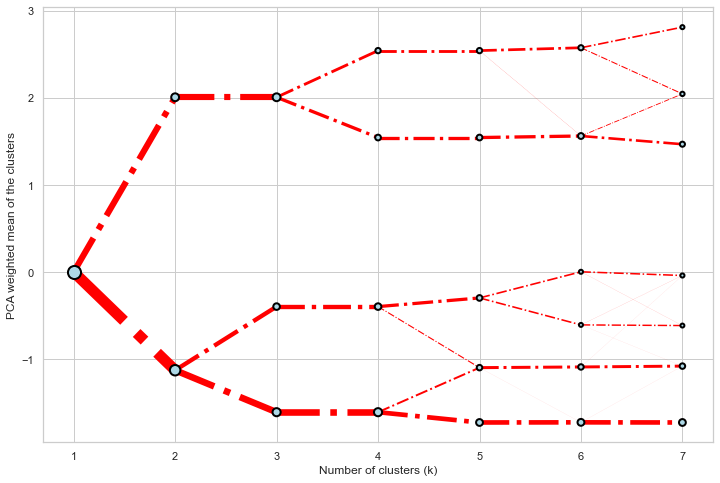
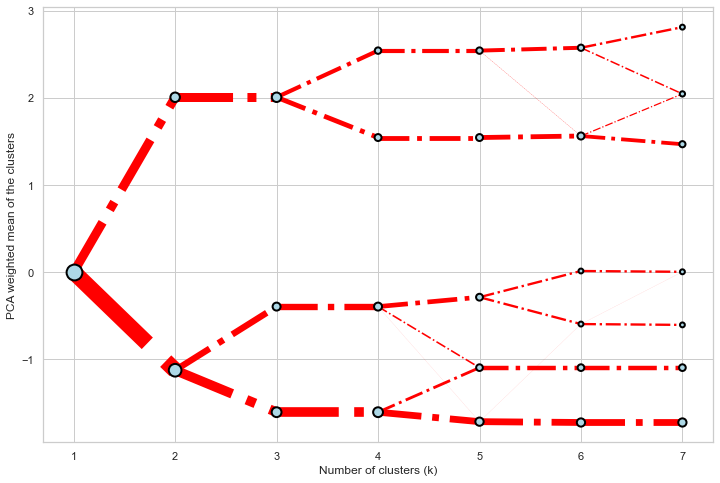
automatic plot sizes. closes #1

diff --git a/clustergram/clustergram.py b/clustergram/clustergram.py
@@ -161,7 +161,7 @@ class Clustergram:
         self,
         ax=None,
         size=1,
-        linewidth=0.1,
+        linewidth=1,
         cluster_style=None,
         line_style=None,
         figsize=None,
@@ -176,10 +176,10 @@ class Clustergram:
             matplotlib axis on which to draw the plot
         size : float (default 1)
             multiplier of the size of a cluster centre indication. Size is determined as
-            the count of observations in a cluster multiplied by ``size``.
-        linewidth : float (default .1)
+            ``500 / count`` of observations in a cluster multiplied by ``size``.
+        linewidth : float (default 1)
             multiplier of the linewidth of a branch. Line width is determined as
-            the count of observations in a branch multiplied by `linewidth`.
+            ``50 / count`` of observations in a branch multiplied by `linewidth`.
         cluster_style : dict (default None)
             Style options to be passed on to the cluster centre plot, such
             as ``color``, ``linewidth``, ``edgecolor`` or ``alpha``.
@@ -226,7 +226,7 @@ class Clustergram:
                 ax.scatter(
                     [i] * i,
                     [cl.index],
-                    cl * size,
+                    cl * ((500 / len(self.means)) * size),
                     zorder=cl_zorder,
                     color=cl_c,
                     edgecolor=cl_ec,
@@ -237,7 +237,7 @@ class Clustergram:
                 ax.scatter(
                     [i] * i,
                     cl.index.to_array(),
-                    (cl * size).to_array(),
+                    (cl * ((500 / len(self.means)) * size)).to_array(),
                     zorder=cl_zorder,
                     color=cl_c,
                     edgecolor=cl_ec,
@@ -256,7 +256,7 @@ class Clustergram:
                     ax.plot(
                         [i, i + 1],
                         [r[1], r[2]],
-                        linewidth=r[3] * linewidth,
+                        linewidth=r[3] * ((50 / len(self.means)) * linewidth),
                         color=l_c,
                         zorder=l_zorder,
                         solid_capstyle=solid_capstyle,

diff --git a/doc/index.rst b/doc/index.rst
@@ -68,7 +68,7 @@ any other matplotlib plot.
    cgram.plot(
        ax=ax,
        size=0.5,
-       linewidth=0.05,
+       linewidth=0.5,
        cluster_style={"color": "lightblue", "edgecolor": "black"},
        line_style={"color": "red", "linestyle": "-."},
        figsize=(12, 8)

diff --git a/README.md b/README.md
@@ -53,7 +53,7 @@ seaborn.set(style='whitegrid')
 cgram.plot(
     ax=ax,
     size=0.5,
-    linewidth=0.05,
+    linewidth=0.5,
     cluster_style={"color": "lightblue", "edgecolor": "black"},
     line_style={"color": "red", "linestyle": "-."},
     figsize=(12, 8)
